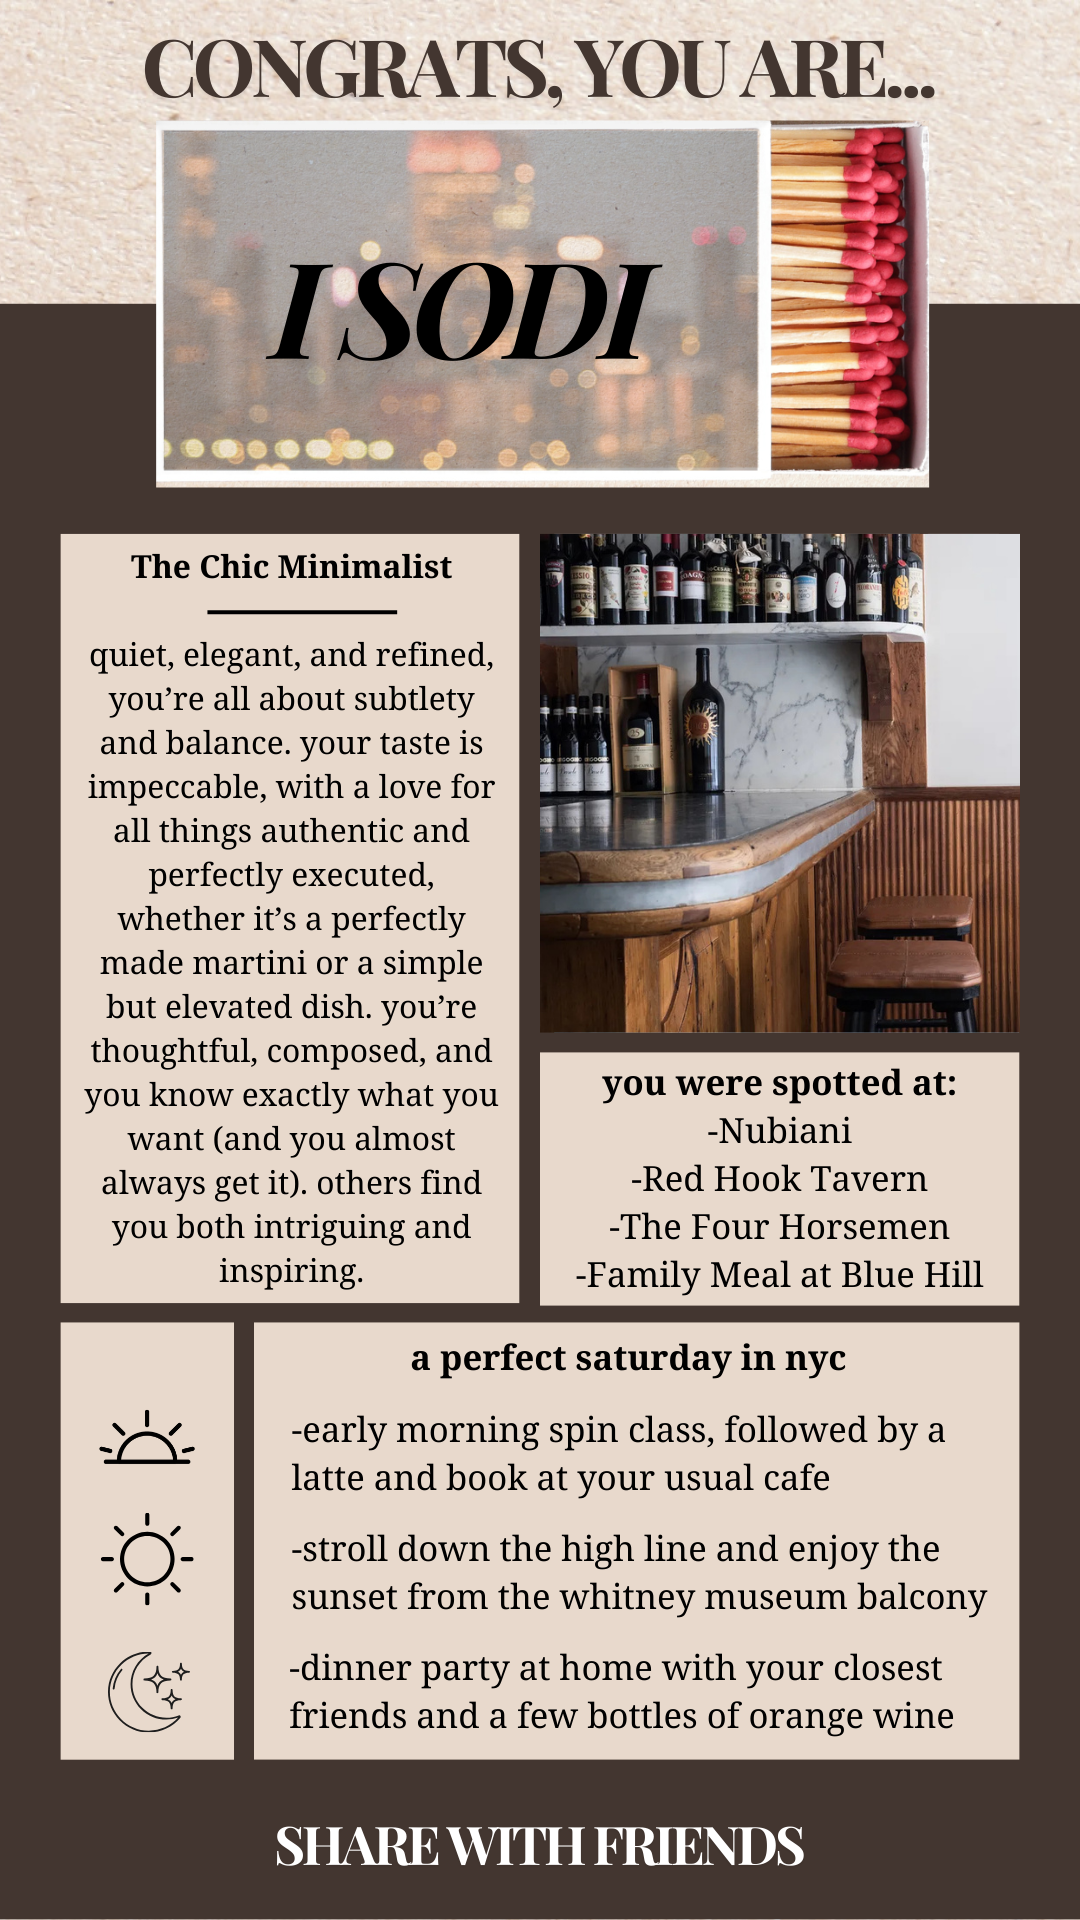
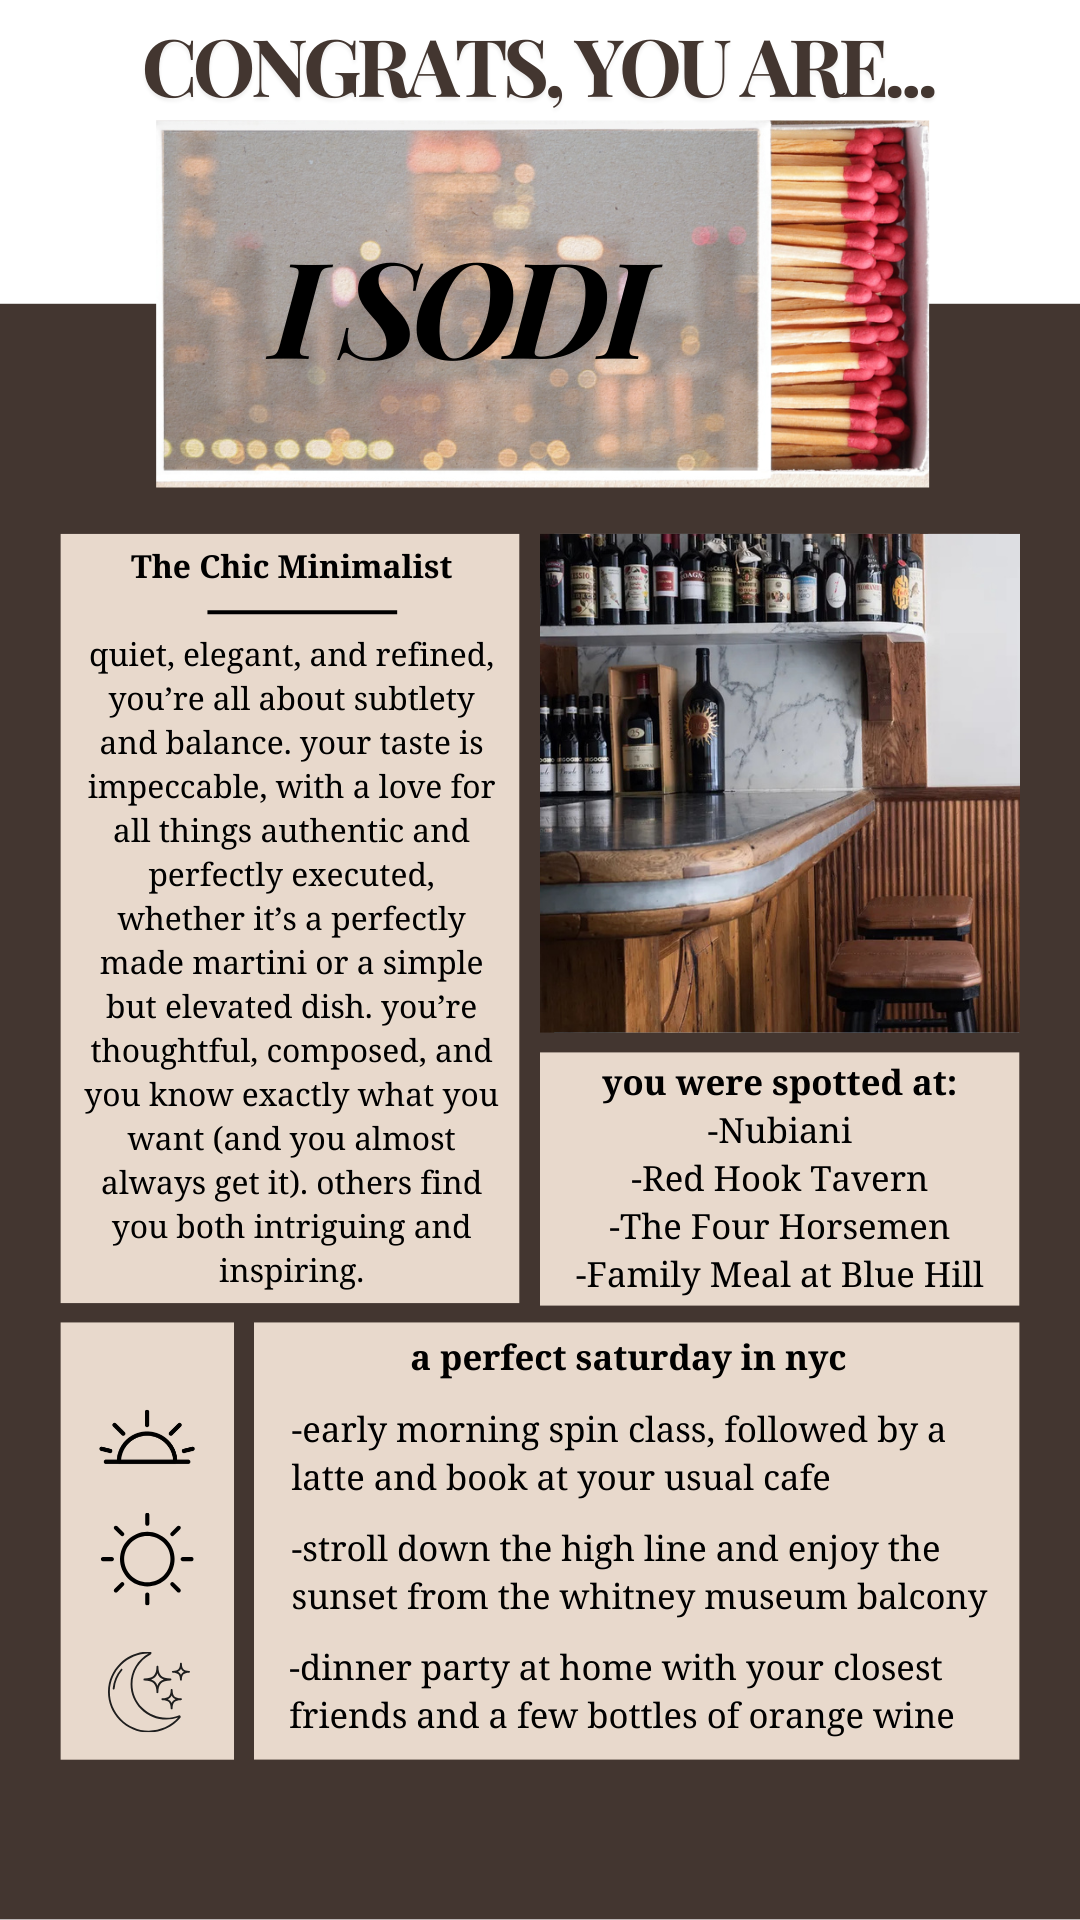
resizing for results

Changed region(s): [[0.0, 0.0, 1.0, 0.1562], [0.2444, 0.9375, 0.7639, 0.9688]]

diff --git a/index.html b/index.html
@@ -68,16 +68,16 @@
 
       .game-container {
         display: none;
-        margin-top: 10%;
         overflow: auto;
         align-items: center;
         justify-content: center;
+        margin-bottom: 8%;
       }
 
       .story-text {
         font-size: 22px;
         margin-bottom: 2rem;
-        padding: 4vh 1vw;
+        padding: 3vh 1vw;
         background-color: rgba(232, 217, 204, 0.8);
         color: #511827;
         font-weight: bold;
@@ -87,9 +87,11 @@
         margin-right: -20px;
         padding-left: 20px;
         padding-right: 20px;
-
         position: relative;
         left: 20px;
+        display: flex;
+        flex-direction: column;
+        align-items: center;
       }
 
       .choices {
@@ -113,6 +115,22 @@
         cursor: pointer;
         transition: background-color 0.3s, transform 0.3s;
         border-radius: 10px;
+      }
+
+      .share-button {
+        font-family: "Noto Serif", serif;
+        font-size: 18px;
+        /* padding: 2vh 1vw; */
+        /* width: 75%; */
+        color: #511827;
+        font-weight: bold;
+        border: none;
+        /* background-color: rgba(232, 217, 204, 0.8); */
+        cursor: pointer;
+        /* transition: background-color 0.3s, transform 0.3s; */
+        border-radius: 10px;
+        margin-top: 20px;
+        /* margin-bottom: 20px; */
       }
 
       @media (hover: hover) {
@@ -139,6 +157,7 @@
       .responsive-image {
         max-width: 100%;
         height: auto;
+        margin-top: 15%;
       }
 
       .container.game-active {
@@ -146,6 +165,14 @@
           center;
         background-size: cover;
         background-position: center;
+      }
+
+      .question-number {
+        font-size: 18px;
+        color: #511827;
+        margin-bottom: 25px;
+        text-transform: uppercase;
+        font-weight: bold;
       }
     </style>
   </head>
@@ -159,7 +186,6 @@
         alt="Story Image"
       />
       <a href="#" class="start-button" onclick="startGame()">Start</a>
-
       <div class="game-container" id="game-container">
         <div class="story-text" id="story-text"></div>
         <div class="choices" id="choices"></div>

diff --git a/js/mainGame.js b/js/mainGame.js
@@ -360,7 +360,7 @@ const gameData = {
           Tatiana: 2,
         },
       },
-      "celebrating a birthday (why is it always someone's birthday)": {
+      "celebrating a bday (there's always a bday)": {
         next: 11,
         scores: {
           Carbone: 2,
@@ -382,7 +382,7 @@ const gameData = {
           "I Sodi": 2,
         },
       },
-      "jazz or comedy club (aka trying to adult)": {
+      "jazz or comedy club": {
         next: 11,
         scores: {
           "The Polo Bar": 2,
@@ -509,11 +509,13 @@ let currentState = 1;
 
 function renderState(state) {
   const storyText = document.getElementById("story-text");
-  // const storyImage = document.getElementById("story-image");
   const choicesContainer = document.getElementById("choices");
 
-  storyText.textContent = gameData[state].text;
-  // storyImage.src = gameData[state].image;
+  storyText.innerHTML = `
+    <div class="question-number">Question ${state} of 12</div>
+    <div>${gameData[state].text}</div>
+  `;
+
   choicesContainer.innerHTML = "";
 
   Object.entries(gameData[state].choices).forEach(([choice, info]) => {
@@ -521,7 +523,6 @@ function renderState(state) {
     button.textContent = choice;
     button.className = "choice-button";
     button.onclick = () => {
-      // Update scores
       Object.entries(info.scores).forEach(([restaurant, score]) => {
         scores[restaurant] += score;
       });
@@ -553,9 +554,9 @@ function revealResult() {
         src="smaller_images/${profile.image}" 
         alt="${result}" 
         class="responsive-image"
-        style="max-width: 100%; height: auto; margin: 20px auto;"
+        style="max-width: 100%; height: auto;"
       >
-      <button onclick="location.reload()" class="choice-button" style="margin-top: 20px; margin-bottom: 20px;">
+      <button onclick="location.reload()" class="share-button">
         Share with friends!
       </button>
     </div>
